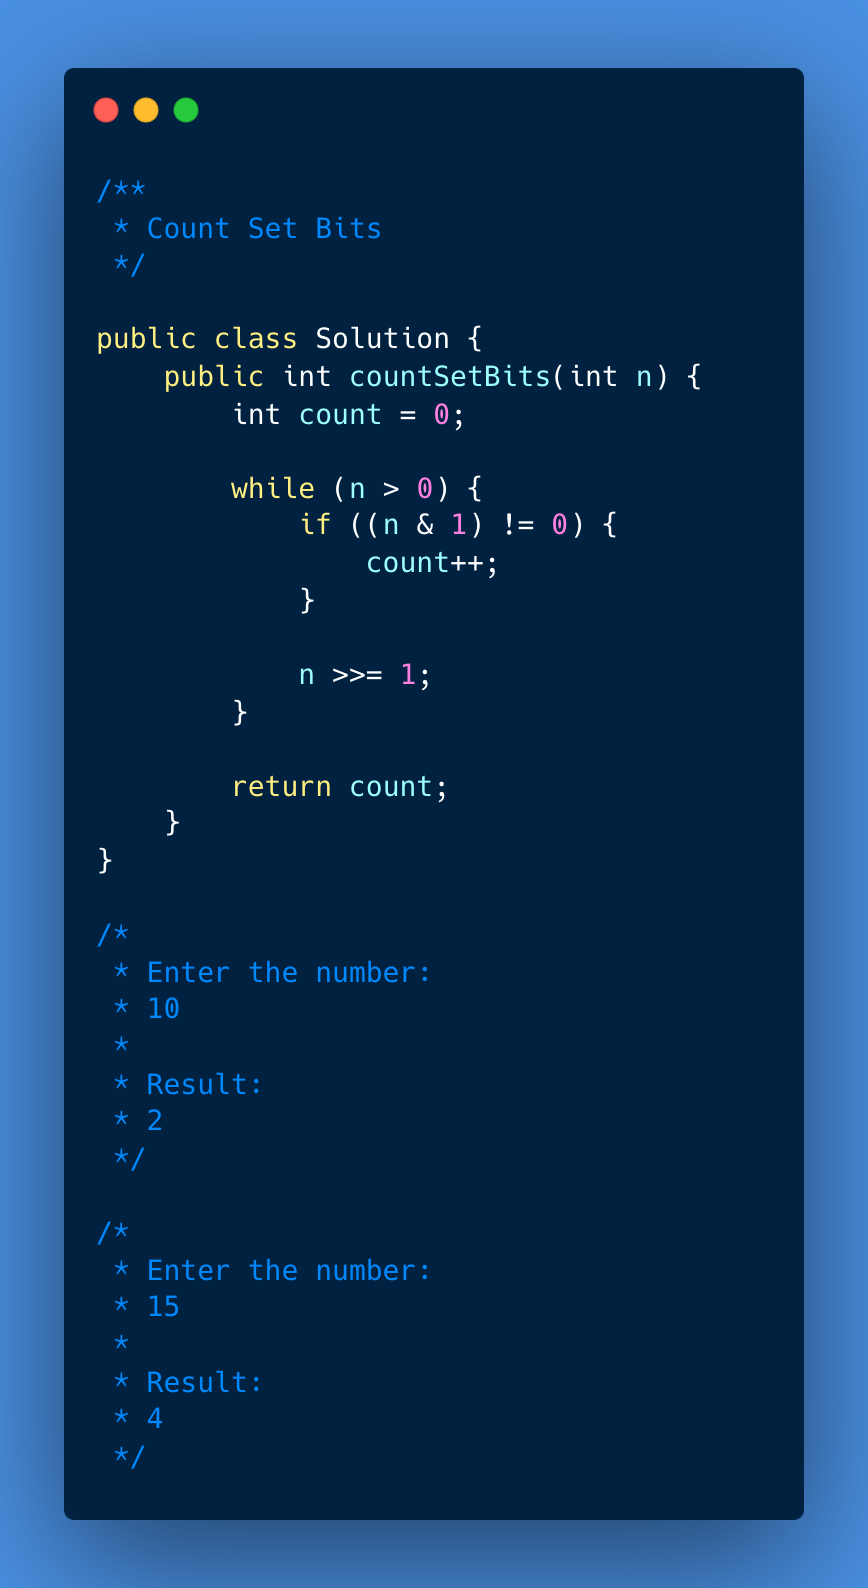
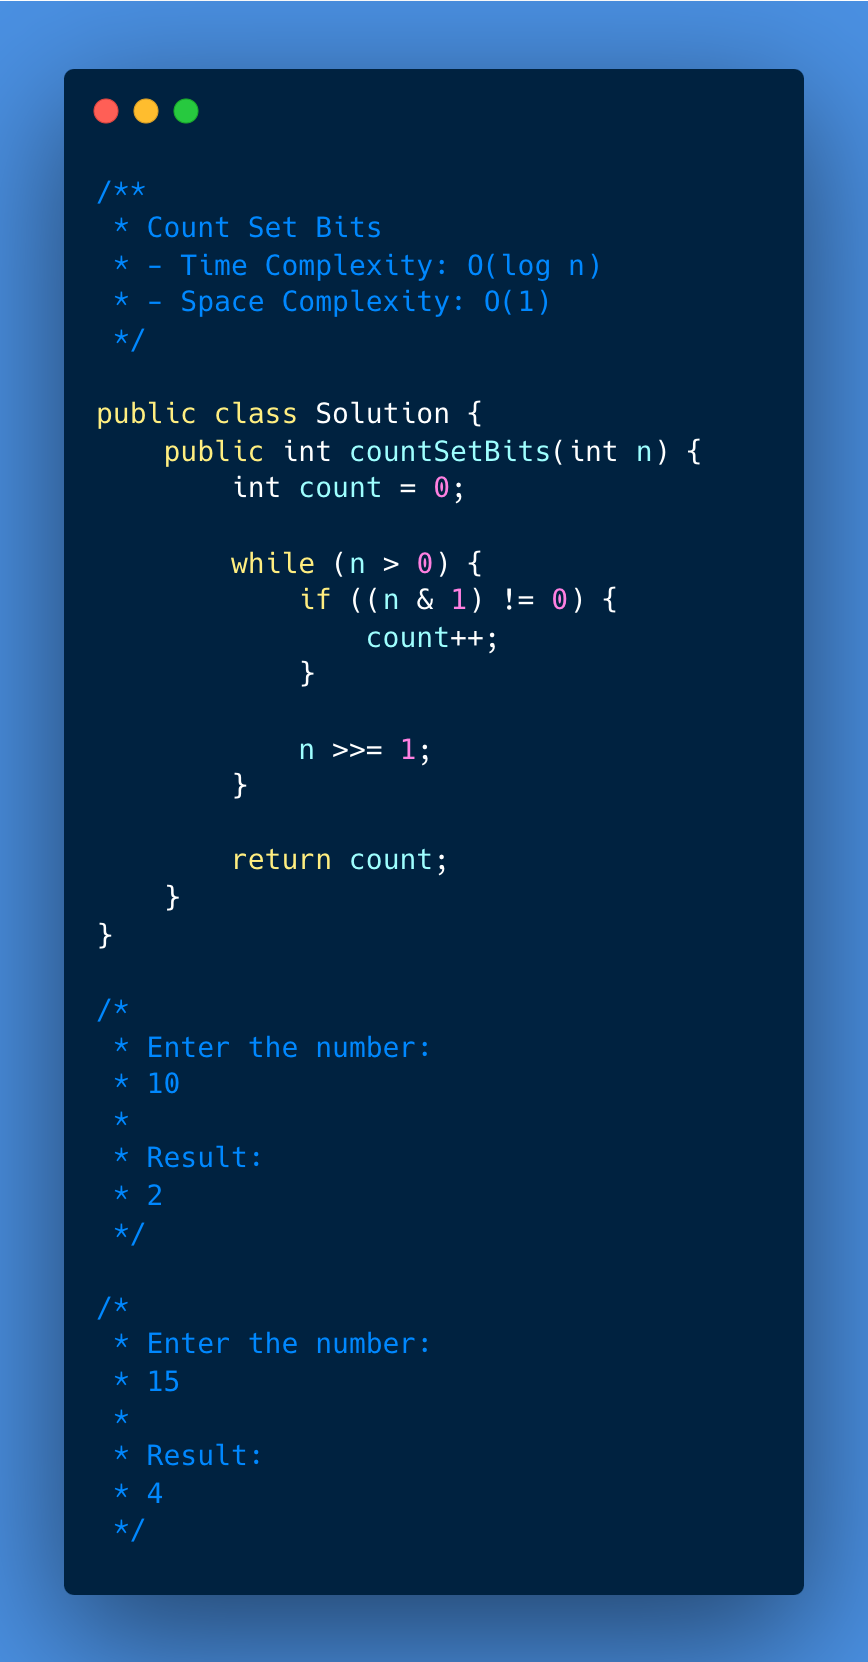
count set bits updates

diff --git a/083-count-set-bits/001-solution/Solution.java b/083-count-set-bits/001-solution/Solution.java
@@ -1,5 +1,7 @@
 /**
  * Count Set Bits
+ * - Time Complexity: O(log n)
+ * - Space Complexity: O(1)
  */
 
 public class Solution {
